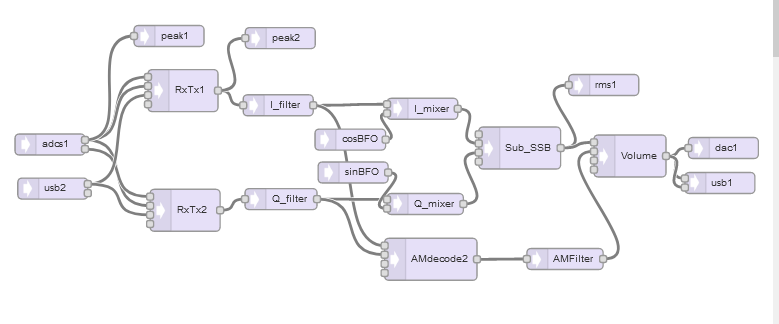
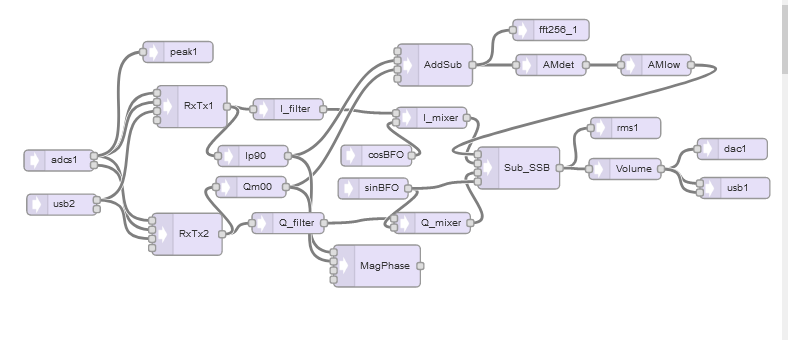
Add files via upload

Changed region(s): [[0.0, 0.0309, 0.9859, 0.8642], [0.9859, 0.1543, 1.0, 0.216], [0.9859, 0.0, 1.0, 0.0309]]

diff --git a/filters.h b/filters.h
@@ -1,0 +1,112 @@
+
+// 30 tap FIR lowpass no window 4k bandwidth
+const int16_t AMlowpass[30] = {
+
+( int16_t )( 32767.5 *  0.005681087748554111 ),
+( int16_t )( 32767.5 *  0.013163871985528892 ),
+( int16_t )( 32767.5 *  0.017197106665339943 ),
+( int16_t )( 32767.5 *  0.014797245737889365 ),
+( int16_t )( 32767.5 *  0.004889115103845881 ),
+( int16_t )( 32767.5 * -0.010656862241462837 ),
+( int16_t )( 32767.5 * -0.026925314250976894 ),
+( int16_t )( 32767.5 * -0.037025387303898455 ),
+( int16_t )( 32767.5 * -0.034132329084483840 ),
+( int16_t )( 32767.5 * -0.013894859251274143 ),
+( int16_t )( 32767.5 *  0.023621632214406715 ),
+( int16_t )( 32767.5 *  0.073214473934284624 ),
+( int16_t )( 32767.5 *  0.125437218595036093 ),
+( int16_t )( 32767.5 *  0.168953941623731341 ),
+( int16_t )( 32767.5 *  0.193673606320852981 ),
+( int16_t )( 32767.5 *  0.193673606320852981 ),
+( int16_t )( 32767.5 *  0.168953941623731341 ),
+( int16_t )( 32767.5 *  0.125437218595036093 ),
+( int16_t )( 32767.5 *  0.073214473934284624 ),
+( int16_t )( 32767.5 *  0.023621632214406715 ),
+( int16_t )( 32767.5 * -0.013894859251274143 ),
+( int16_t )( 32767.5 * -0.034132329084483840 ),
+( int16_t )( 32767.5 * -0.037025387303898455 ),
+( int16_t )( 32767.5 * -0.026925314250976894 ),
+( int16_t )( 32767.5 * -0.010656862241462837 ),
+( int16_t )( 32767.5 *  0.004889115103845881 ),
+( int16_t )( 32767.5 *  0.014797245737889365 ),
+( int16_t )( 32767.5 *  0.017197106665339943 ),
+( int16_t )( 32767.5 *  0.013163871985528892 ),
+( int16_t )( 32767.5 *  0.005681087748554111 )
+};
+
+// 34 tap Hilbert bandpass 7k to 11k no window
+const int16_t  AMp90[34] = {
+  
+( int16_t )( 32767.5 * -0.012700910243416299 ),
+( int16_t )( 32767.5 * -0.012858016020566960 ),
+( int16_t )( 32767.5 *  0.017226590944407431 ),
+( int16_t )( 32767.5 *  0.032656621287310179 ),
+( int16_t )( 32767.5 * -97.14272944410730E-12 ),
+( int16_t )( 32767.5 * -0.030620362424831439 ),
+( int16_t )( 32767.5 * -0.013592970472234336 ),
+( int16_t )( 32767.5 *  0.004781558351534664 ),
+( int16_t )( 32767.5 * -0.011939883117138225 ),
+( int16_t )( 32767.5 * -69.73672509076100E-12 ),
+( int16_t )( 32767.5 *  0.063973016769305363 ),
+( int16_t )( 32767.5 *  0.057674954724323629 ),
+( int16_t )( 32767.5 * -0.075585276043723615 ),
+( int16_t )( 32767.5 * -0.148788473391370524 ),
+( int16_t )( 32767.5 *  188.8076632850170E-12 ),
+( int16_t )( 32767.5 *  0.186470014332724643 ),
+( int16_t )( 32767.5 *  0.120306680819848383 ),
+( int16_t )( 32767.5 * -0.120306680819774164 ),
+( int16_t )( 32767.5 * -0.186470014332756062 ),
+( int16_t )( 32767.5 * -188.8889797275030E-12 ),
+( int16_t )( 32767.5 *  0.148788473391356729 ),
+( int16_t )( 32767.5 *  0.075585276043776323 ),
+( int16_t )( 32767.5 * -0.057674954724293855 ),
+( int16_t )( 32767.5 * -0.063973016769324154 ),
+( int16_t )( 32767.5 *  69.71992385940100E-12 ),
+( int16_t )( 32767.5 *  0.011939883117143967 ),
+( int16_t )( 32767.5 * -0.004781558351534707 ),
+( int16_t )( 32767.5 *  0.013592970472222849 ),
+( int16_t )( 32767.5 *  0.030620362424834090 ),
+( int16_t )( 32767.5 *  97.15969508321460E-12 ),
+( int16_t )( 32767.5 * -0.032656621287305877 ),
+( int16_t )( 32767.5 * -0.017226590944419667 ),
+( int16_t )( 32767.5 *  0.012858016020559852 ),
+( int16_t )( 32767.5 *  0.012700910243420375 )
+};
+
+const int16_t  AMm00[34] = {
+  
+( int16_t )( 32767.5 *  0.004162669962285799 ),
+( int16_t )( 32767.5 * -0.017851470074634716 ),
+( int16_t )( 32767.5 * -0.023916596387784390 ),
+( int16_t )( 32767.5 *  0.010703069851874397 ),
+( int16_t )( 32767.5 *  0.035981933865067858 ),
+( int16_t )( 32767.5 *  0.010035694416420949 ),
+( int16_t )( 32767.5 * -0.018871847224405880 ),
+( int16_t )( 32767.5 * -0.006638492489593779 ),
+( int16_t )( 32767.5 * -0.003913246157730968 ),
+( int16_t )( 32767.5 * -0.038470659808587958 ),
+( int16_t )( 32767.5 * -0.020966886314049457 ),
+( int16_t )( 32767.5 *  0.080073220109513468 ),
+( int16_t )( 32767.5 *  0.104939075239099816 ),
+( int16_t )( 32767.5 * -0.048764794625054952 ),
+( int16_t )( 32767.5 * -0.181106395582566054 ),
+( int16_t )( 32767.5 * -0.061114760329970028 ),
+( int16_t )( 32767.5 *  0.167028190332329685 ),
+( int16_t )( 32767.5 *  0.167028190332385473 ),
+( int16_t )( 32767.5 * -0.061114760329886671 ),
+( int16_t )( 32767.5 * -0.181106395582572632 ),
+( int16_t )( 32767.5 * -0.048764794625124980 ),
+( int16_t )( 32767.5 *  0.104939075239073434 ),
+( int16_t )( 32767.5 *  0.080073220109547677 ),
+( int16_t )( 32767.5 * -0.020966886314023915 ),
+( int16_t )( 32767.5 * -0.038470659808597048 ),
+( int16_t )( 32767.5 * -0.003913246157738099 ),
+( int16_t )( 32767.5 * -0.006638492489586256 ),
+( int16_t )( 32767.5 * -0.018871847224409231 ),
+( int16_t )( 32767.5 *  0.010035694416405439 ),
+( int16_t )( 32767.5 *  0.035981933865067213 ),
+( int16_t )( 32767.5 *  0.010703069851890224 ),
+( int16_t )( 32767.5 * -0.023916596387777479 ),
+( int16_t )( 32767.5 * -0.017851470074642557 ),
+( int16_t )( 32767.5 *  0.004162669962280544 )
+};
